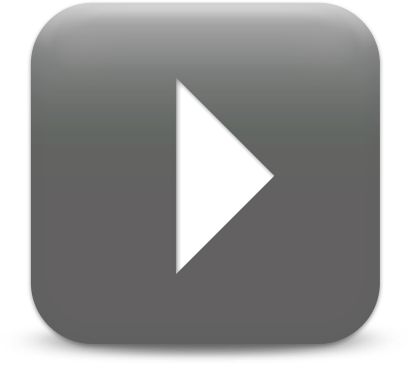
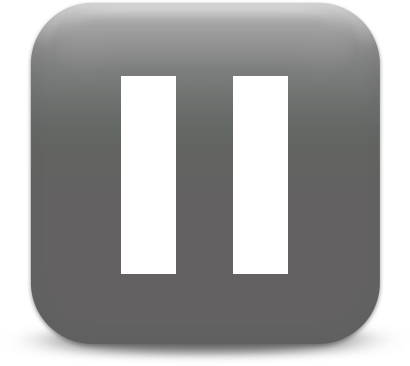
Made playing and pausing more user friendly.

Changed region(s): [[0.2927, 0.2104, 0.7024, 0.7514]]

diff --git a/js/controller.js b/js/controller.js
@@ -100,7 +100,7 @@ function getPlaylist(){
 				for(i in data['result']){
 					html = "<tr>";
 					html += "<td class=\"playlist-buttons\">" +
-								"<a href=\"javascript:void(0);\" onclick=\"playbuttonClick(this);\">" +
+								"<a href=\"javascript:void(0);\" onclick=\"playtoggle(this);\">" + //playbuttonClick(this);
 									"<img src=\"images/playbutton.png\" title=\"Play\" alt=\"Play\" />" +
 								"</a>" +
 								"<a href=\"javascript:void(0);\" onclick=\"remove($(this).parent().parent().children('td:last-child').html());$(this).parent().parent().remove();\">" +
@@ -324,12 +324,14 @@ function getPreviousSong(){
 }
 
 function playtoggle(parent){
-	if($("#audioPlayer").audivid("isplaying") == 1){
+	if($("#audioPlayer").audivid("isplaying") == 1){ //pause
 		$("#playtoggle").removeClass("playing");
 		$("#pausetoggle").removeClass("playing");
-	}else{
+		$(".playing td a:first-child img").attr('src','images/playbutton.png');
+	}else{  //play
 		$("#playtoggle").addClass("playing");
 		$("#pausetoggle").addClass("playing");
+		$(".playing td a:first-child img").attr('src','images/playbutton_playing.png');
 	}
 	$("#audioPlayer").audivid("playpause");
 	

diff --git a/css/player.css b/css/player.css
@@ -44,7 +44,7 @@
 
 #gutter {
 	display:inline-block;
-	width: 465px;
+	width: 350px; /*465px;*/
 	height: 8px;
 	background-color: #111;
 	border:10px solid #333;
